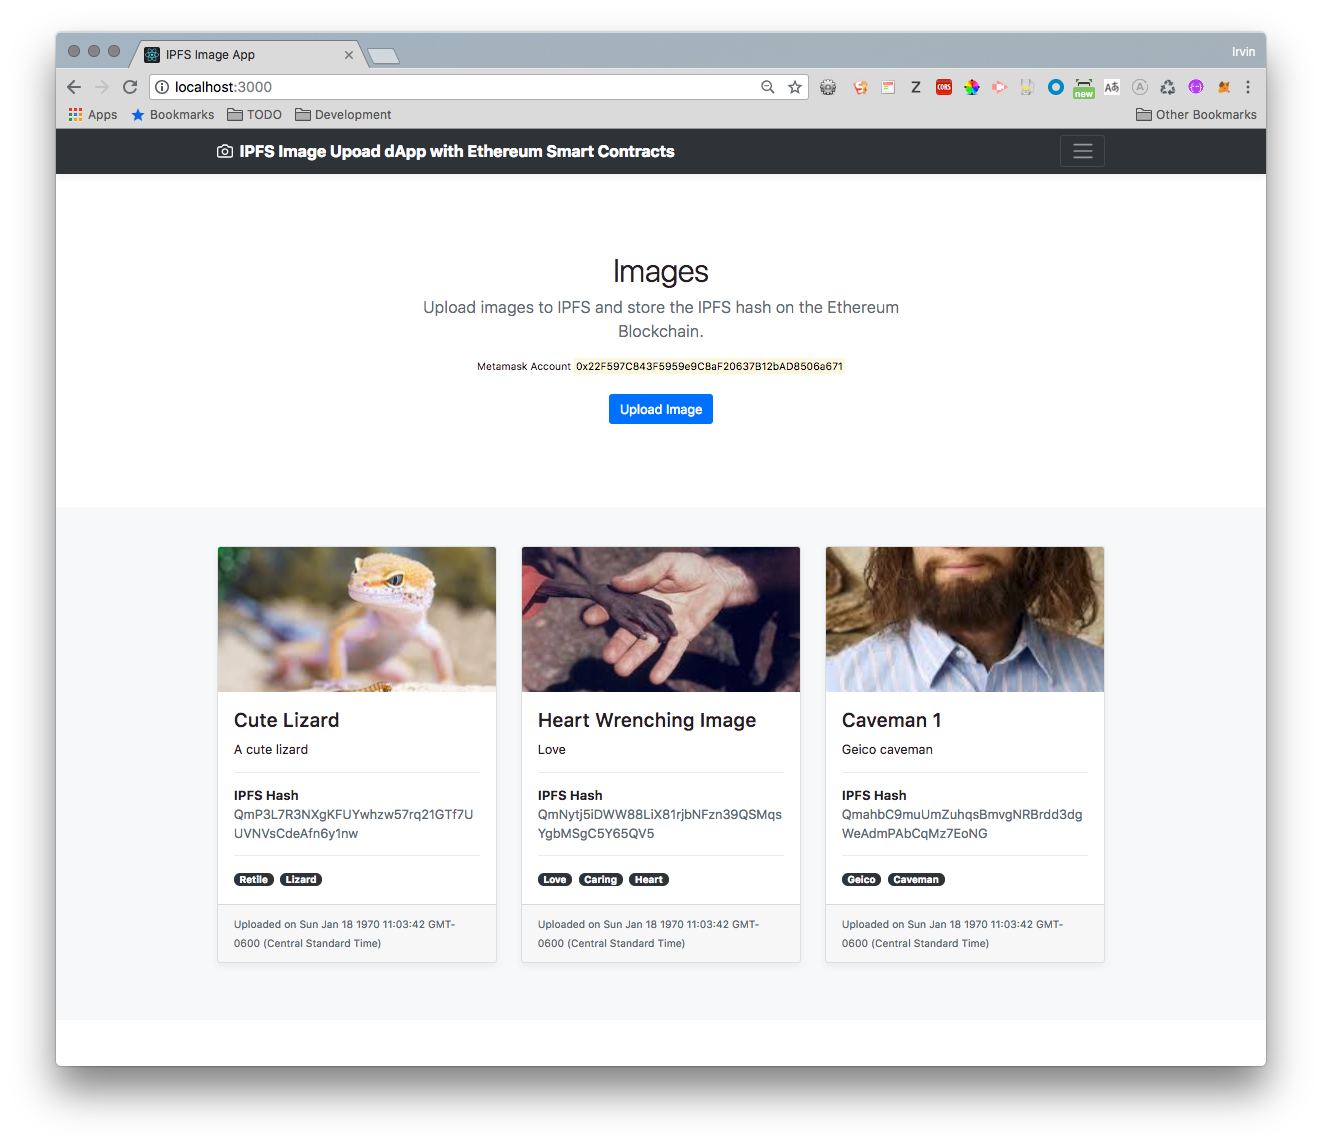
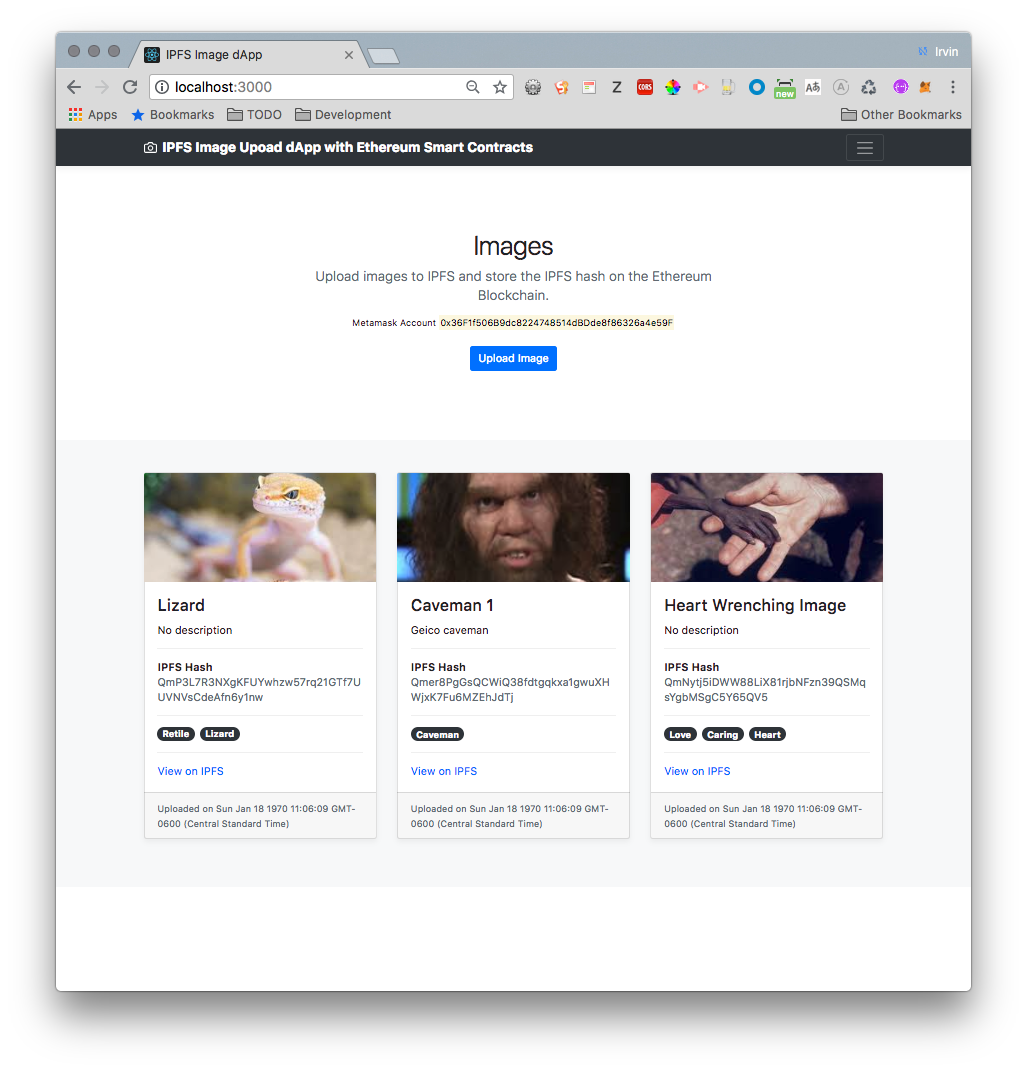
Update app screenshots

Changed region(s): [[0.1246, 0.4314, 0.8724, 0.8319], [0.0312, 0.0, 0.9659, 0.9552], [0.3116, 0.2157, 0.6855, 0.3697]]

diff --git a/src/components/images/ImageItem.js b/src/components/images/ImageItem.js
@@ -43,7 +43,7 @@ class ImageItem extends Component {
             <a
               target="_blank"
               href={`https://ipfs.io/ipfs/${ipfsHash}`}
-              class="card-link"
+              className="card-link"
             >
               View on IPFS
             </a>
